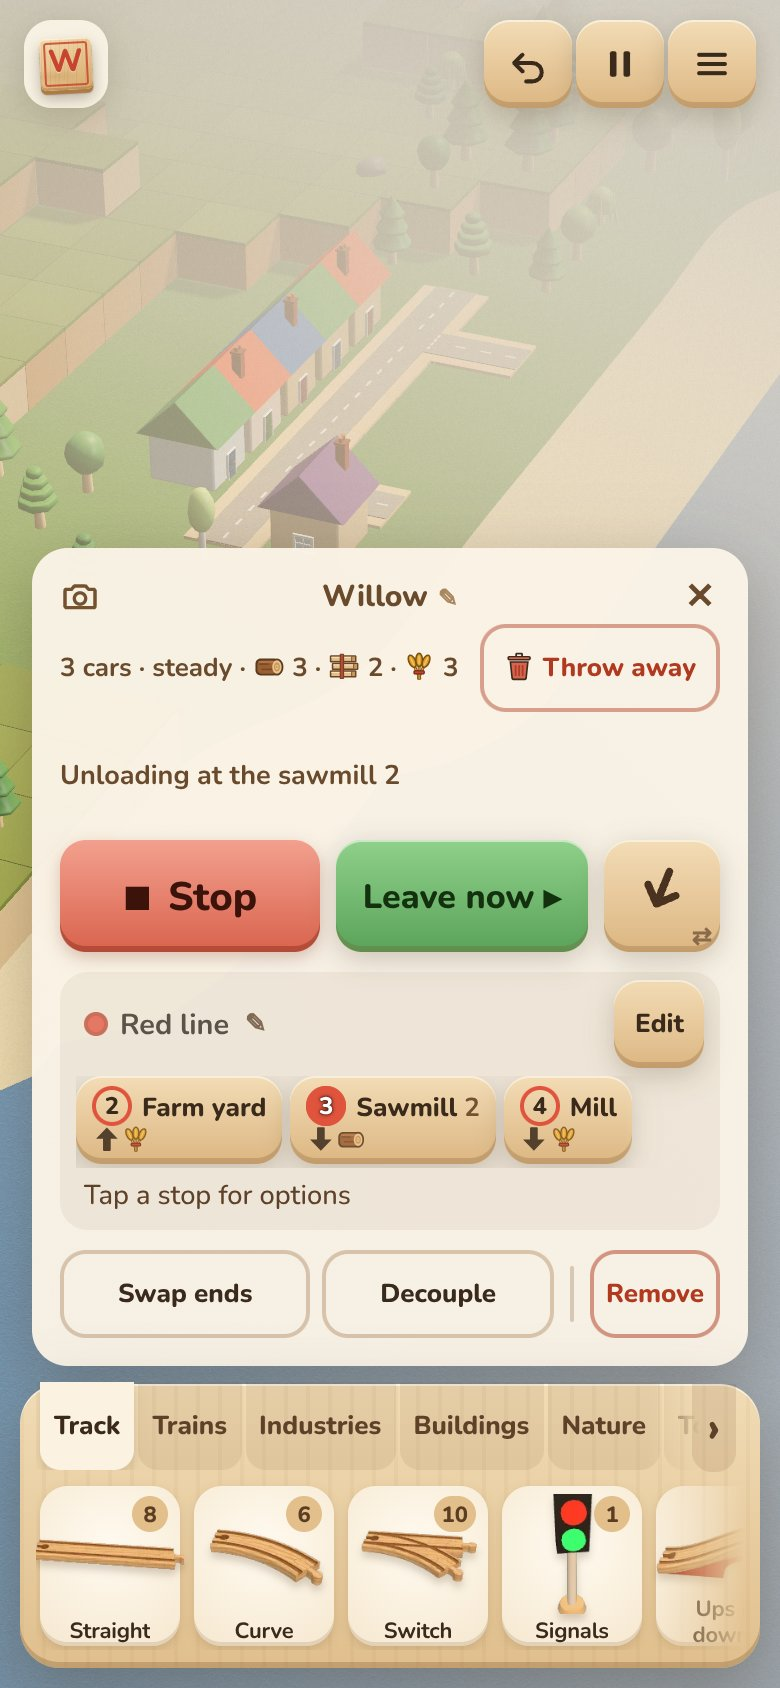
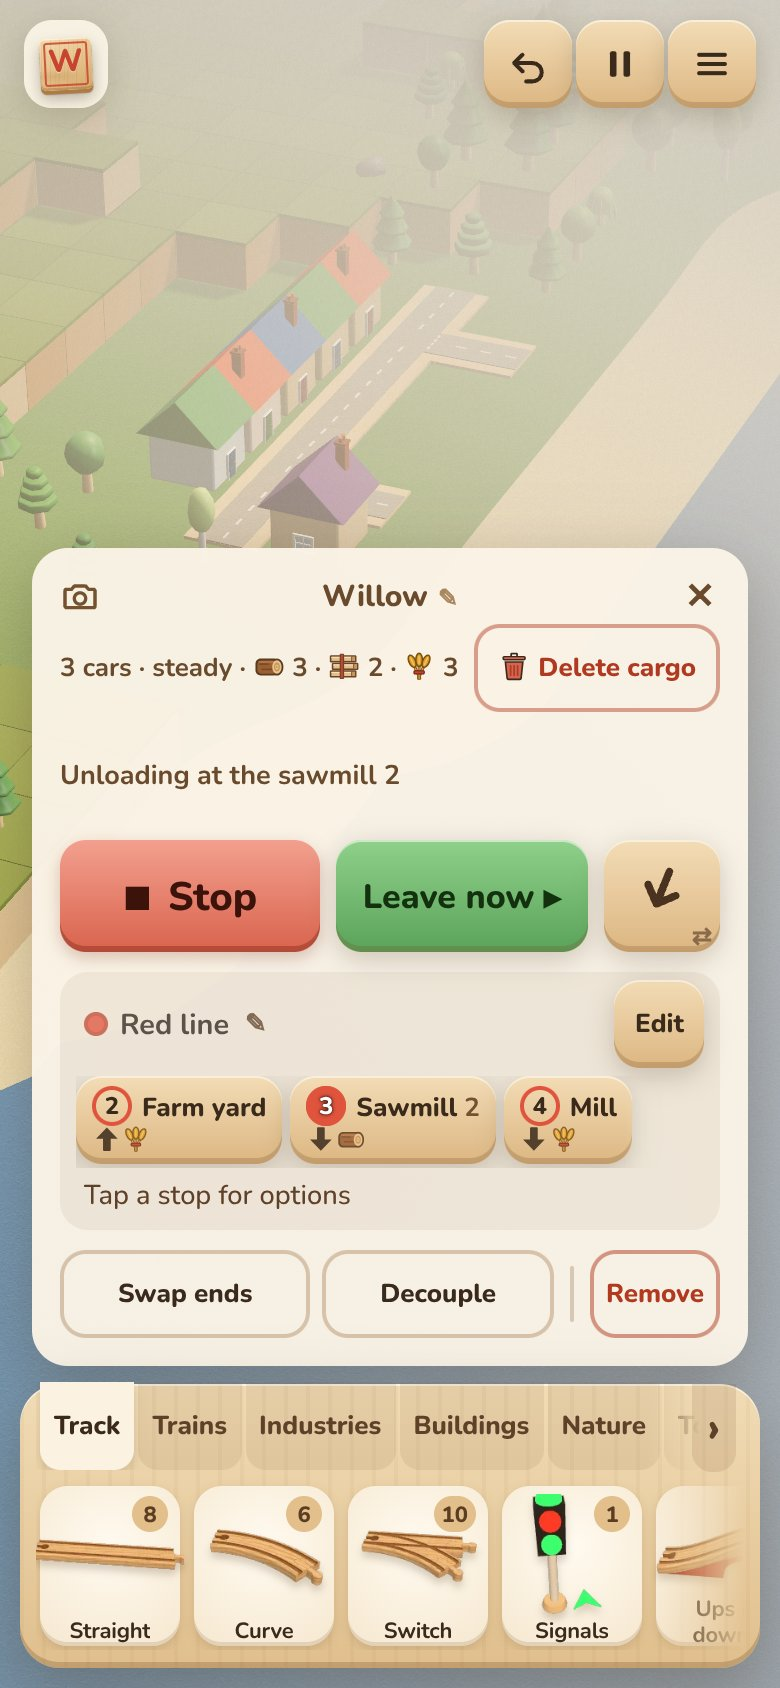
Engine card: Throw away is now Delete cargo (the user's word); its ask is "Delete cargo? Tap again"
Fits at 390 px (shots engine-card-2, -3 retaken).

Claude-Session: https://claude.ai/code/session_01BHcqn3GKpspSDrxmoi1YL6

Changed region(s): [[0.5846, 0.3697, 0.8923, 0.4313], [0.6769, 0.8626, 0.7692, 0.955]]

diff --git a/src/ui/hud.ts b/src/ui/hud.ts
@@ -194,8 +194,8 @@ const SWAP_TITLE = "Move the engine to the other end of its train";
 const ENGINE_DECOUPLE_TITLE = "Uncouple the engine from its cars";
 const CAR_DECOUPLE_TITLE = "Uncouple this wagon (and those behind it) from the cars on the engine's side";
 const EMPTY_CAR_TITLE = "Tip this wagon's goods out (they're thrown away)";
-const EMPTY_TRAIN_TITLE = "Throw away every wagon's goods (they're gone: not unloaded anywhere). Tap, then tap again";
-const EMPTY_TRAIN_LABEL = "🗑 Throw away";
+const EMPTY_TRAIN_TITLE = "Delete every wagon's cargo (it's gone: not unloaded anywhere). Tap, then tap again";
+const EMPTY_TRAIN_LABEL = "🗑 Delete cargo";
 
 /**
  * Grey a button that would only be refused now (`why` says why, as its tooltip), or bring it back (`why` ""). It stays
@@ -313,7 +313,7 @@ export class Hud {
   /** Room on the engine card for Game mode's own rows (where the train delivers), filled by main. */
   readonly engineExtra = el("div", "engine-extra");
   /** The train summary under the status: cars, speed, line; and what's on board (two lines, each cut with "…"). */
-  /** The load row under the engine's name: the summary and Throw away. */
+  /** The load row under the engine's name: the summary and Delete cargo. */
   private readonly engineLoad = el("div", "engine-load");
   private readonly engineSummary = el("div", "engine-summary");
   private readonly summaryAbout = el("div", "summary-about");
@@ -686,7 +686,7 @@ export class Hud {
     this.engineCard.append(this.followBtn);
     // Top to bottom by purpose (impeccable critique of 2026-11-05, the user's layout B): what it carries, a line under
     // its name; what it's doing and the fix for it; Go or Stop, Leave now and the way; its line; the train's own tools.
-    // What it carries, in one line, and Throw away beside it (two taps: the goods are gone, not unloaded anywhere).
+    // What it carries, in one line, and Delete cargo beside it (two taps: the goods are gone, not unloaded anywhere).
     this.emptyTrainBtn = button(EMPTY_TRAIN_LABEL, EMPTY_TRAIN_TITLE, () => this.askEmpty(h.emptyTrain), "chip text empty-all");
     this.emptyTrainBtn.hidden = true;
     this.engineSummary.append(this.summaryAbout, this.summaryLoad);
@@ -2044,17 +2044,17 @@ export class Hud {
     this.engineLoad.hidden = this.engineSummary.hidden && this.emptyTrainBtn.hidden;
   }
 
-  /** Throw away asking ("Throw away? Tap again"), and the timer that stops it asking. */
+  /** Delete cargo asking ("Delete cargo? Tap again"), and the timer that stops it asking. */
   private emptyAsk = 0;
   /**
-   * Throw away (the engine card): the first tap asks, a second while it asks throws the goods away (`act`). As New game
+   * Delete cargo (the engine card): the first tap asks, a second while it asks throws the goods away (`act`). As New game
    * and the line's Forget ask: the goods are gone, and there's no undo for them.
    */
   private askEmpty(act: () => void): void {
     const b = this.emptyTrainBtn;
     if (!b.classList.contains("asking")) {
       b.classList.add("asking");
-      b.textContent = "Throw away? Tap again";
+      b.textContent = "Delete cargo? Tap again";
       window.clearTimeout(this.emptyAsk);
       this.emptyAsk = window.setTimeout(() => this.stopEmptyAsk(), ASK_MS);
       return;
@@ -2072,7 +2072,7 @@ export class Hud {
   }
 
   /**
-   * Empty (the wagon card) and Throw away (the engine card): shown while there are goods to tip out, greyed with `why`
+   * Empty (the wagon card) and Delete cargo (the engine card): shown while there are goods to tip out, greyed with `why`
    * ("Stop the train first") while they'd be refused, "" for not. Main sets it only when that changes.
    */
   setEmpty(car: { shown: boolean; why: string }, train: { shown: boolean; why: string }): void {

diff --git a/src/style.css b/src/style.css
@@ -273,7 +273,7 @@ input, textarea, [contenteditable="true"] { -webkit-user-select: text; user-sele
    Stop, Leave now and the way; the line; the train's own tools. Groups 10 px apart, chips 8 px apart (DESIGN.md). */
 .engine-card:not([hidden]) { align-items: stretch; }
 .engine-card .engine-name { align-self: center; }
-/* What it carries, one line under the name (cut with "…"), and Throw away at its end (only while there are goods). */
+/* What it carries, one line under the name (cut with "…"), and Delete cargo at its end (only while there are goods). */
 .engine-load { display: flex; align-items: center; justify-content: center; gap: 8px; min-width: 0; margin-top: -6px; }
 .engine-load[hidden], .engine-load > [hidden] { display: none; }
 .engine-summary { flex: 0 1 auto; min-width: 0; font-size: 13px; font-weight: 700; color: #6a4a2c; line-height: 18px; white-space: nowrap; overflow: hidden; text-overflow: ellipsis; }
@@ -281,7 +281,7 @@ input, textarea, [contenteditable="true"] { -webkit-user-select: text; user-sele
 .engine-summary > .summary-about:not(:last-child)::after { content: " · "; }
 .engine-summary > .summary-load[hidden] { display: none; }
 .engine-load:has(> .empty-all:not([hidden])) { justify-content: space-between; }
-/* Throw away: the goods are gone (not unloaded anywhere), so it's in the warning ink and asks first. */
+/* Delete cargo: the goods are gone (not unloaded anywhere), so it's in the warning ink and asks first. */
 .engine-load > .empty-all { flex: none; height: 44px; padding: 0 12px; font-size: 14px; background: transparent; color: var(--warn-ink); box-shadow: inset 0 0 0 2px rgba(176, 57, 31, 0.45); }
 .engine-load > .empty-all.asking { background: var(--warn-ink); color: #fff; box-shadow: none; }
 .car-load { font-size: 14px; font-weight: 700; color: #6a4a2c; text-align: center; margin-top: -4px; }

diff --git a/src/main.ts b/src/main.ts
@@ -4086,7 +4086,7 @@ function boot(savedThumbnails: Map<string, string> | null, opening: ReturnType<t
   }
 
   /**
-   * Empty (the wagon card) or Throw away (the engine card, `all`): tip the goods out where the train stands, thrown away
+   * Empty (the wagon card) or Delete cargo (the engine card, `all`): tip the goods out where the train stands, thrown away
    * (`Economy.dump`). Not undoable: undo is the track's and the land's, and no train action (Decouple, Swap ends) or
    * crane work is in it. A coach's riders stay on. The toast says what went, and a place on the map that takes it.
    */
@@ -4123,7 +4123,7 @@ function boot(savedThumbnails: Map<string, string> | null, opening: ReturnType<t
   }
 
   /**
-   * Empty and Throw away on the open card: shown while there are goods to tip out, greyed while the train moves. Keyed
+   * Empty and Delete cargo on the open card: shown while there are goods to tip out, greyed while the train moves. Keyed
    * by the car, the loads' stamp and whether it stands: the buttons are touched only when one changes.
    */
   let emptyKey = "";

diff --git a/src/game/empty-words.ts b/src/game/empty-words.ts
@@ -1,5 +1,5 @@
 /**
- * What Empty's toast says (a wagon card's Empty, the engine card's Throw away): what was tipped out, by goods, and where
+ * What Empty's toast says (a wagon card's Empty, the engine card's Delete cargo): what was tipped out, by goods, and where
  * on the map takes the first of them, if anywhere does ("Tipped out 6 🪵 · Ashby takes 🪵").
  */
 import { GOODS_ICON, type CargoKind } from "../economy/cargo";

diff --git a/docs/agents/game-mode.md b/docs/agents/game-mode.md
@@ -70,7 +70,7 @@ Rail and road owns the sim and sections. Send them head-ons and switch-path issu
   - Checks: `research.test.ts` "chains in the queue", `research-text.test.ts` "cards for chains in the queue", e2e:research step 10 (Mills behind Farming, the toast, the chain learned through).
 - **A caboose makes its train a bit faster (#13).** `CABOOSE_BONUS` (1.1×) in `engines.ts` `topSpeed`, on top of the engines' speed, when a caboose is an end car of a train with an engine (`cabooseAtTail`: either end, so it doesn't change when the train reverses). Mid-train doesn't count; two don't stack. Game mode only (Sandbox has no `topSpeed`). The tray's caboose says "Caboose: Makes its train a bit faster" (title; a tap toasts it on a phone), from `gameDetail` on the tray item. The engine card shows no speed, so nothing there. Covered by `engines.test.ts` and step 7 of `e2e:train-parts`. Balance bands not run: the harness builds no cabooses, so its SUMMARY lines should be unchanged.
 
-- **Empty a wagon (2026-11-02, the user's ask: "any way to empty a wagon that isn't at a stop?").** The wagon card has "Empty" beside its load, the engine card "Throw away" beside the train's (two taps since 2026-11-06: it asks "Throw away? Tap again"); shown only while there are goods on board, greyed with "Stop the train first" while the train moves (`Economy.dumpRefusal`, `Sim.standing`; the same `aria-disabled` look as Swap ends and Decouple). The goods are thrown away (`Economy.dump`: onto no pile, so no town, school or goal is credited). Toast "Tipped out 6 🪵", with a place on the map that takes it when there is one ("· The Mill takes 🌾", `takerOf`, `empty-words.ts`). Nothing else to clear: what's held for a school is worked out from what's on board (`heldForSchool`), `landedFrom` goes with the load, and the train's pass for that good restarts at its next load. A coach's riders stay on (they aren't goods, and letting them off nowhere would lose their fare). Not undoable: undo covers track and land only; no train action or crane work is in it. Empty all spans the summary's two lines (44 px, -4 px margins), not a row under them: a taller engine card failed e2e:touch's blocker glide (no room above the card) and would scroll on a phone on its side. Checks: `src/economy/empty.test.ts`, steps 8 and 9 of `e2e:train-summary`.
+- **Empty a wagon (2026-11-02, the user's ask: "any way to empty a wagon that isn't at a stop?").** The wagon card has "Empty" beside its load, the engine card "Delete cargo" beside the train's (two taps since 2026-11-06: it asks "Delete cargo? Tap again"); shown only while there are goods on board, greyed with "Stop the train first" while the train moves (`Economy.dumpRefusal`, `Sim.standing`; the same `aria-disabled` look as Swap ends and Decouple). The goods are thrown away (`Economy.dump`: onto no pile, so no town, school or goal is credited). Toast "Tipped out 6 🪵", with a place on the map that takes it when there is one ("· The Mill takes 🌾", `takerOf`, `empty-words.ts`). Nothing else to clear: what's held for a school is worked out from what's on board (`heldForSchool`), `landedFrom` goes with the load, and the train's pass for that good restarts at its next load. A coach's riders stay on (they aren't goods, and letting them off nowhere would lose their fare). Not undoable: undo covers track and land only; no train action or crane work is in it. Empty all spans the summary's two lines (44 px, -4 px margins), not a row under them: a taller engine card failed e2e:touch's blocker glide (no room above the card) and would scroll on a phone on its side. Checks: `src/economy/empty.test.ts`, steps 8 and 9 of `e2e:train-summary`.
 - **Stickers (spec 2026-10-31-achievements.md, steps 1–2).** `src/game/stickers.ts`: `STICKERS` (30 so far, with On the road, Ice cream day, the town tiers and the places' Happy town, Day out and Civic pride, five hidden with a `hint`) and `StickerTracker`, checked in `checkGoals` only (`checkStickers`), never per frame. Each sticker lists its `deps` (pieces, towns, coins, counts, learned, goals, land, sea, trains); it's checked only when one of their keys changed (`depKeys`), never once earned. Measured 9.0 µs a check in the fast play-through (20 stickers; 5.6 µs with 10). Earned quietly from the start (a dot on the chip, `.goals-dot`); the Stickers tab shows once every core goal is done (`goals.current() === null && lockedCount === 0`), announced by one toast as the last goal ticks ("🌟 Stickers! You've earned N already…", a tap opens the tab), then one toast a check per sticker. Looks only: no coins, nothing a goal or research needs. Saved as ids under `woodrail.game.stickers.v1` (in `PROGRESS_KEYS`, a union in the cloud merge); seen ones under `woodrail.game.stickers.seen.v1` (device only). The goals play-through asserts the four the fast part earns. e2e: `npm run e2e:stickers`. Harbour stickers (Ahoy, seller! / Ahoy, buyer! / hidden Sea trader at 100): `HarbourTrade` counts goods sold (`counts.exported`) and bought and landed (`counts.imported`) on its "sold"/"bought" events; the `sea` dep keys on those two only, so they're checked only after a boat trades. Stickers, not goals: Open a harbour is already the core goal that teaches harbours, and buying (from the harbour's card) and selling are optional uses of it, not steps the core path needs. Milestones (no new counters: the economy's own totals and the world): Long line (200 pieces), The whole works (every goods-making industry kind on the map, `INDUSTRY_KINDS`), City ★★, Busy timetable (5 trains running) and hidden Rush hour (10), Special delivery (100 goods to towns) and Big deliveries (1,000). Not done: laps of one route (needs a sim lap counter) and bread (dairy has landed since: a follow-up).
 - **Feature tips (2026-11-05, `claude/onboarding-2`): light onboarding for the systems after the core goals.** `src/game/feature-tips.ts`: `FEATURE_TIPS`, one per system (Sidings, Tunnels, Tank wagons, Breakdown crane, Jam kitchen, Chocolate factory, Toy workshop, Reading room, Telegraph; and, with no blueprint, the workshop's keep stepper (once "Give a train a route" is done), Leave now (while a train waits for a full load) and Reverse on a ring line (while one has a train)). **Not goals:** the core count stays 23 and nothing waits on them. `TipTracker.update` runs in `checkGoals` (`checkTips`, once a second; 6.5 µs on the starter map), never per frame: a tip whose system is used goes for good (a second track laid, a tunnel mouth on the map, the maker placed, a tank wagon or crane on a train, two researches queued, a telegraph pole; Leave now and Reverse are marked by main when tapped), and the first left that's useful shows as a 💡 row on the Goals tab (`tipRowHtml`: "New: Sidings", its line, Show me and Got it). With no current goal the folded chip says "💡 Sidings" and its ⌖ is the tip's. Show me (`showTip`) takes a goal's `GoalGuide` (an industry's card, a hill by the line with the Straight shelf, the Industries tab or Lineside) or opens the research board, an engine card or Lines. A blueprint's tip is said once more on its Learned toast (`learnedText`'s `tip`, after the line unless the line says it: Sidings' `how` is its tip's first clause); a tip with no blueprint is toasted once the first time it shows. Done and toasted ids are saved on this device (`woodrail.game.tips.v1`, `saveTips`), cleared by a new game. Tray help: Lineside furniture says what it does (`PROP_INFO` in piece-info.ts: signal box, lever frame, telegraph pole, bus stop, crossings…), tunnel mouths say a Long straight or Draw digs, and the goods chains' place cards give their recipes (by `INDUSTRY_ROLE`: the jam kitchen's role is `jamworks`, so it had none). Checks: `feature-tips.test.ts`, `npm run e2e:feature-tips`; pictures `docs/agents/shots/onboarding-*.jpg`.
 - **Stickers (spec 2026-10-31-achievements.md, steps 1–2).** `src/game/stickers.ts`: `STICKERS` (27 so far, with On the road, Ice cream day and the town tiers, five hidden with a `hint`) and `StickerTracker`, checked in `checkGoals` only (`checkStickers`), never per frame. Each sticker lists its `deps` (pieces, towns, coins, counts, learned, goals, land, sea, trains); it's checked only when one of their keys changed (`depKeys`), never once earned. Measured 9.0 µs a check in the fast play-through (20 stickers; 5.6 µs with 10). Earned quietly from the start (a dot on the chip, `.goals-dot`); the Stickers tab shows once every core goal is done (`goals.current() === null && lockedCount === 0`), announced by one toast as the last goal ticks ("🌟 Stickers! You've earned N already…", a tap opens the tab), then one toast a check per sticker. Looks only: no coins, nothing a goal or research needs. Saved as ids under `woodrail.game.stickers.v1` (in `PROGRESS_KEYS`, a union in the cloud merge); seen ones under `woodrail.game.stickers.seen.v1` (device only). The goals play-through asserts the four the fast part earns. e2e: `npm run e2e:stickers`. Harbour stickers (Ahoy, seller! / Ahoy, buyer! / hidden Sea trader at 100): `HarbourTrade` counts goods sold (`counts.exported`) and bought and landed (`counts.imported`) on its "sold"/"bought" events; the `sea` dep keys on those two only, so they're checked only after a boat trades. Stickers, not goals: Open a harbour is already the core goal that teaches harbours, and buying (from the harbour's card) and selling are optional uses of it, not steps the core path needs. Milestones (no new counters: the economy's own totals and the world): Long line (200 pieces), The whole works (every goods-making industry kind on the map, `INDUSTRY_KINDS`), City ★★, Busy timetable (5 trains running) and hidden Rush hour (10), Special delivery (100 goods to towns) and Big deliveries (1,000). Not done: laps of one route (needs a sim lap counter) and bread (dairy has landed since: a follow-up).

diff --git a/docs/agents/mobile-ux.md b/docs/agents/mobile-ux.md
@@ -53,7 +53,7 @@ Not in scope: the economy, the sim, or drawing logic, beyond the gestures that s
 
 **The card tap guard** (card-settle): a tap is dropped only if the button under the finger moved more than 6 px (or first came into place) within 150 ms. Never drop on a resize alone: a dead-end card reflows while Continue stays put. The engine card's route and rows go in synchronously as it opens (`onEngineCardShown`).
 
-**The engine card shows all its controls (no ⋯), grouped by purpose (layout B, 2026-11-06, after an impeccable critique of 24/40; shots `docs/agents/shots/engine-card-*`):** Follow and ✕ in the corners, the name between them. Then, top to bottom: the load, one line under the name ("3 cars · steady · 🪵 3 · …", cut with "…"), with **Throw away** at its end while there are goods (was "Empty all": the goods are gone, not unloaded, so it's in the warning ink and asks first, "Throw away? Tap again", 4 s); the **status row**, the status left and its fix beside it (Show, Send the crane), always 44 px tall so moving, stuck and waiting don't jump; the **main row**, Go or Stop, then **Leave now** (any stop: `Economy.atStop`, route or none, shown after 1.2 s there, at once while waiting to fill) or Continue beside it, the way arrow last; the **line** as a panel of its own (its name and Edit; its stops; "Plan a route" with none); then Swap ends, Decouple, Paint and Remove as a quieter row of flat chips, Remove last after a rule (they were behind a ⋯ toggle once, a tap more than the user wanted). The summary leaves out the line's name where the line panel says it. **Editing the line:** the card is the line alone: "Editing Red line", the stops (the strip snaps to a whole chip at its start, never one cut, with room at its end), the hint in plain words, then **Take off line** (was "Leave" beside Edit, which the user read as "leave the stop"; the last train on a line asks "Forget “Red line”?") and Done at the foot. Taken off its line, the edit view closes. Upright the card sits above the tray as before, 54 px taller. On a phone on its side (`max-height: 520px`) it keeps its own width at the right (also at 640 px, where it used to span the screen) and may come down over the tray, as the cloud card does, so it all shows without a scroll at 360 px tall; with no route yet, "Plan a route" goes under the row alone (the old row-wrap that put it beside Go made the card ~590 px wide, which `viewRoom` and `keepClearOfCard` took for a card at the bottom, so the train was left under it). A docked card must keep its left edge past 40% of the screen (and 200 px) for the map's room to be beside it. e2e: `train-card` in `npm run e2e:touch` (360×640 both ways; moving, Swap ends and Decouple greyed, stopped, back; then Swap ends, Decouple and Remove each do their job).
+**The engine card shows all its controls (no ⋯), grouped by purpose (layout B, 2026-11-06, after an impeccable critique of 24/40; shots `docs/agents/shots/engine-card-*`):** Follow and ✕ in the corners, the name between them. Then, top to bottom: the load, one line under the name ("3 cars · steady · 🪵 3 · …", cut with "…"), with **Delete cargo** at its end while there are goods (was "Empty all": the goods are gone, not unloaded, so it's in the warning ink and asks first, "Delete cargo? Tap again", 4 s); the **status row**, the status left and its fix beside it (Show, Send the crane), always 44 px tall so moving, stuck and waiting don't jump; the **main row**, Go or Stop, then **Leave now** (any stop: `Economy.atStop`, route or none, shown after 1.2 s there, at once while waiting to fill) or Continue beside it, the way arrow last; the **line** as a panel of its own (its name and Edit; its stops; "Plan a route" with none); then Swap ends, Decouple, Paint and Remove as a quieter row of flat chips, Remove last after a rule (they were behind a ⋯ toggle once, a tap more than the user wanted). The summary leaves out the line's name where the line panel says it. **Editing the line:** the card is the line alone: "Editing Red line", the stops (the strip snaps to a whole chip at its start, never one cut, with room at its end), the hint in plain words, then **Take off line** (was "Leave" beside Edit, which the user read as "leave the stop"; the last train on a line asks "Forget “Red line”?") and Done at the foot. Taken off its line, the edit view closes. Upright the card sits above the tray as before, 54 px taller. On a phone on its side (`max-height: 520px`) it keeps its own width at the right (also at 640 px, where it used to span the screen) and may come down over the tray, as the cloud card does, so it all shows without a scroll at 360 px tall; with no route yet, "Plan a route" goes under the row alone (the old row-wrap that put it beside Go made the card ~590 px wide, which `viewRoom` and `keepClearOfCard` took for a card at the bottom, so the train was left under it). A docked card must keep its left edge past 40% of the screen (and 200 px) for the map's room to be beside it. e2e: `train-card` in `npm run e2e:touch` (360×640 both ways; moving, Swap ends and Decouple greyed, stopped, back; then Swap ends, Decouple and Remove each do their job).
 
 **Card buttons that would only be refused are greyed, not hidden:** Swap ends and Decouple (engine card) and the wagon card's Decouple get `aria-disabled` while the sim would refuse them (`Sim.runAroundRefusal` / `decoupleRefusal`, the same checks `runAround` and `decouple` make: moving or on a turning deck, or nothing coupled), with why as the tooltip ("Stop the train first", a long press on a phone); a tap does nothing (`button()` skips aria-disabled). The look is the top bar's disabled one, solid wood with faded words (`.card .chip[aria-disabled]`), not see-through. Main's `showRefusals` keys on car and refusals, so the buttons are touched only as the train starts or stops. Remove is never refused, so it stays. Swap ends on an engine alone only turns it, allowed moving; no room at the far end is known only by trying, so that one stays a toast.
 
